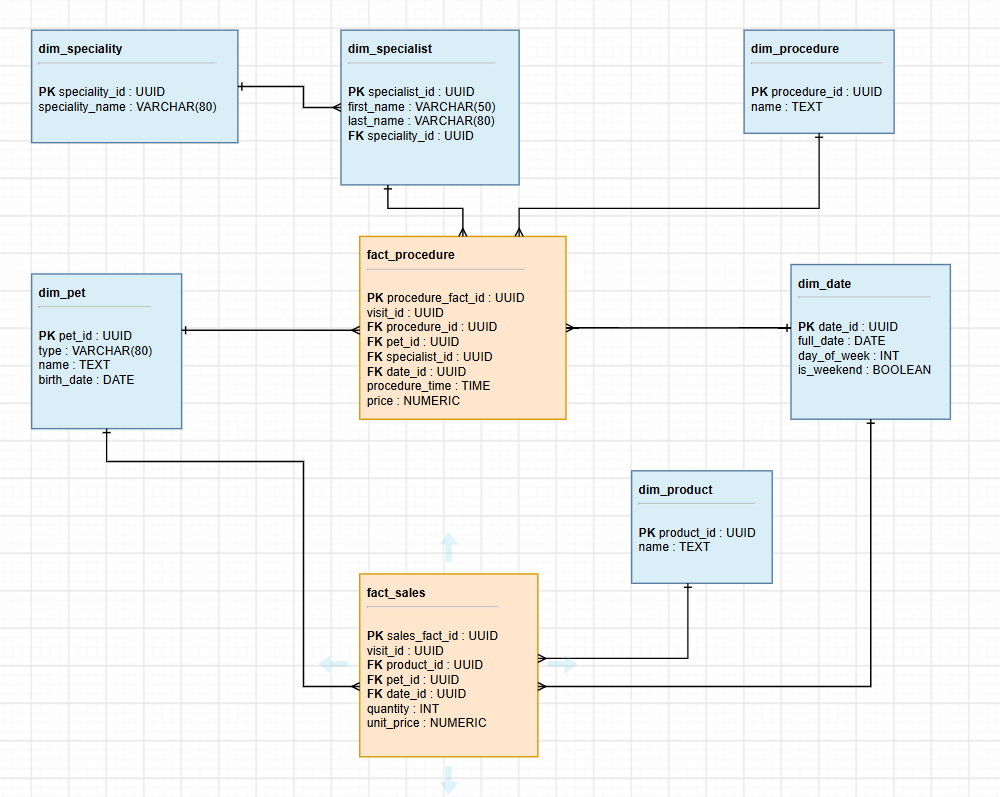
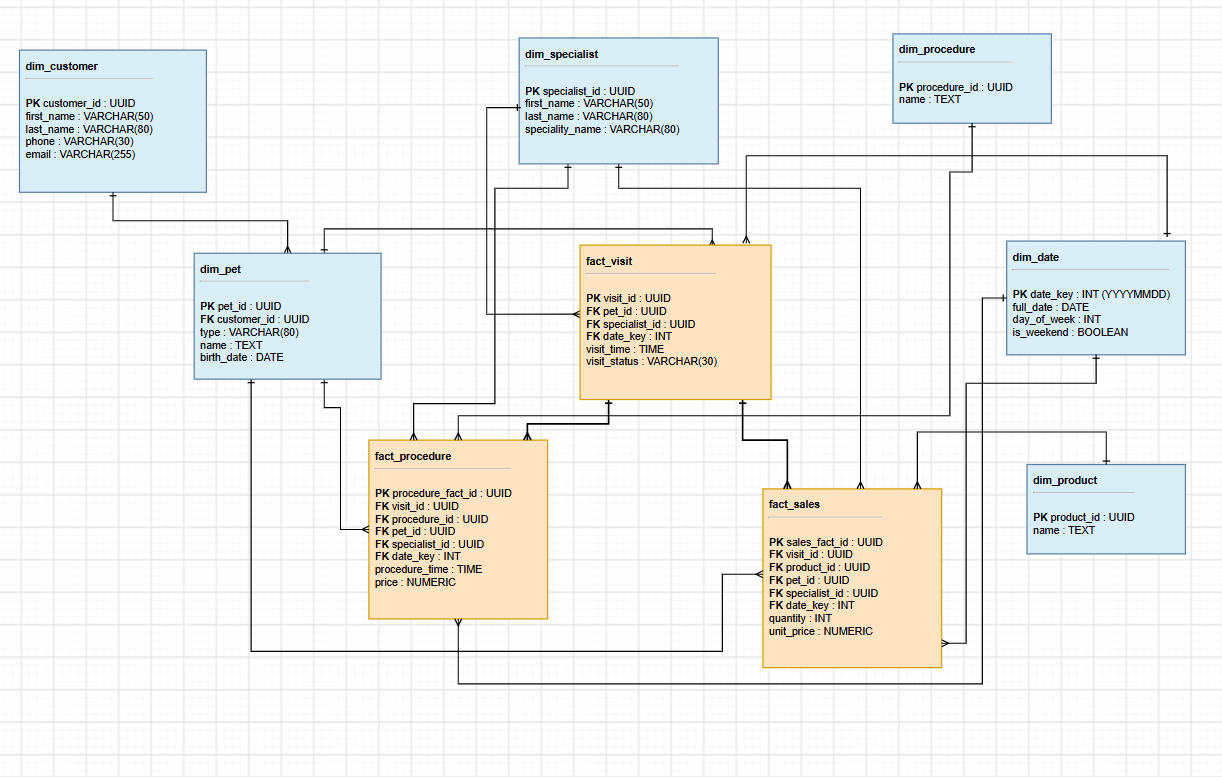
refactor: review issues

diff --git a/sql/hw_5/results.md b/sql/hw_5/results.md
@@ -1,53 +1,36 @@
 # Vet clinic analytics
 
-## Business Process
+## Business process
 
-The selected business process is managing pet visits at a vet clinic. During a visit, not only can procedures be performed, but additional products can also be sold. This model makes it possible to analyze the most popular procedures and products, specialists workload, and the clinic's overall workload.
+The model supports veterinary visits. A visit can include several procedures and several product-sale lines. It supports analysis of clinic workload, procedures, retail sales, specialists, pets, and customers.
 
 ## Data model
 
-![Clinic dimensional model](../../screenshots/sql_results/hw_5.png)
+[Open the dimensional model](../../vet_clinic_dwh_snowflake_er_fixed.drawio)
+
+The model is a star schema. Descriptive attributes are kept in dimensions, while transactional events are kept in facts.
 
 ### Grain
 
- - `fact_procedure` - row represents one procedure performed during a visit
- - `fact_sales` - one row represents one product line sold during a visit
+- `fact_visit`: one row per clinic visit.
+- `fact_procedure`: one row per procedure performed during a visit.
+- `fact_sales`: one row per product line sold during a visit.
 
-The decision to store procedures and product sales as separate rows is based on the fact that several procedures can be performed and several products can be sold during a single visit. Storing an entire visit as one row would make further analysis of individual procedures and products more difficult.
+`fact_visit` is the visit header. Both detailed facts reference it through `visit_id`; they are never joined directly at their detailed grain. This prevents the fan-out problem in visits with multiple procedures and sales lines.
 
-### Fact Tables
+### Fact tables
 
-In `fact_procedure`, each row represents one performed procedure. 
-dimension tables: `dim_specialist`, `dim_procedure`, `dim_pet`,  `dim_date`.
-
-In `fact_sales`, each row represents one product line sold during a visit. 
-dimension tables: `dim_product`, `dim_pet`, `dim_date`.
-
-* `quantity` represents the number of units of a product sold 
-* `unit_price` represents the price of one unit.
-
-`quantity` is stored in `fact_sales` rather than `dim_product` because `dim_product` describes the product itself, but the number of units sold during a visit is a fact about a specific sale.
-
-The `visit_id` identifies the visit and makes it possible to determine which procedures or product sales belong to the same visit.
+- `fact_visit` stores the visit-level pet, specialist, date, time, and status.
+- `fact_procedure` stores the procedure and its price. It references the visit and the procedure, pet, specialist, and date dimensions.
+- `fact_sales` stores the product, quantity, and unit price. It also references the specialist, allowing retail revenue and recommendations to be attributed to a specialist.
 
 ### Dimension Tables
 
-- `dim_pet` contains information about pets. It can be used to analyze which types of pets visit the clinic most often. Since `dim_pet` is also connected to `fact_sales`, it is possible to analyze which products are most frequently purchased for different types of pets.
-
-- `dim_specialist` contains information about the clinics specialists. It can be used to analyze specialists workload based on the number of procedures they perform.
-
-- `dim_speciality` contains information about specialists specialities. The speciality is stored separately from `dim_specialist` to avoid repeating the same speciality name for multiple specialists and to make it possible to analyze data by speciality.
-
-- `dim_procedure` contains the list of procedures available at the clinic and allows procedures to be used as an analytical dimension.
-
-- `dim_product` contains the list of products available for additional sales at the clinic.
-
-- `dim_date` contains information about calendar dates related to events stored in the fact tables. It makes it possible to analyze procedures and sales by date, day of the week, and other calendar characteristics.
-
-### Schema Design
-
-The Snowflake schema was selected because `dim_specialist` and `dim_speciality` are stored as separate related dimension tables. This reduces duplication of speciality information and allows speciality to be analyzed separately.
-
+- `dim_customer` describes the pet owner and supports LTV, household, and contact-based marketing analysis.
+- `dim_pet` stores pet attributes and references `dim_customer` through `customer_id`.
+- `dim_specialist` includes `speciality_name` directly. A separate low-cardinality speciality dimension would add an unnecessary join.
+- `dim_procedure` and `dim_product` describe the respective clinic offerings.
+- `dim_date` uses the integer natural key `date_key` in `YYYYMMDD` format, plus the calendar date and derived calendar attributes.
 
 ## Analytical questions
 
@@ -65,12 +48,12 @@ The query returns additional products ranked by total units sold in July 2026.
 
 ### 3. Which specialists performed the most procedures in July 2026?
 
-The query returns specialists ranked by the number of procedures they performed in July 2026
+Specialists ranked by performed procedures; their speciality is available directly from `dim_specialist`.
 
 - [top_spetialist.sql](./top_spetialist.sql)
 
 ### 4. On which days of the week was the clinic busiest in 2026?
 
-The query returns days of the week ranked by the number of procedures in 2026, together with the `is_weekend` flag.
+The query counts visits from `fact_visit`, rather than procedure rows, so a visit with several procedures is counted once.
 
 - [clinic_load_by_weekday.sql](./clinic_load_by_weekday.sql)
